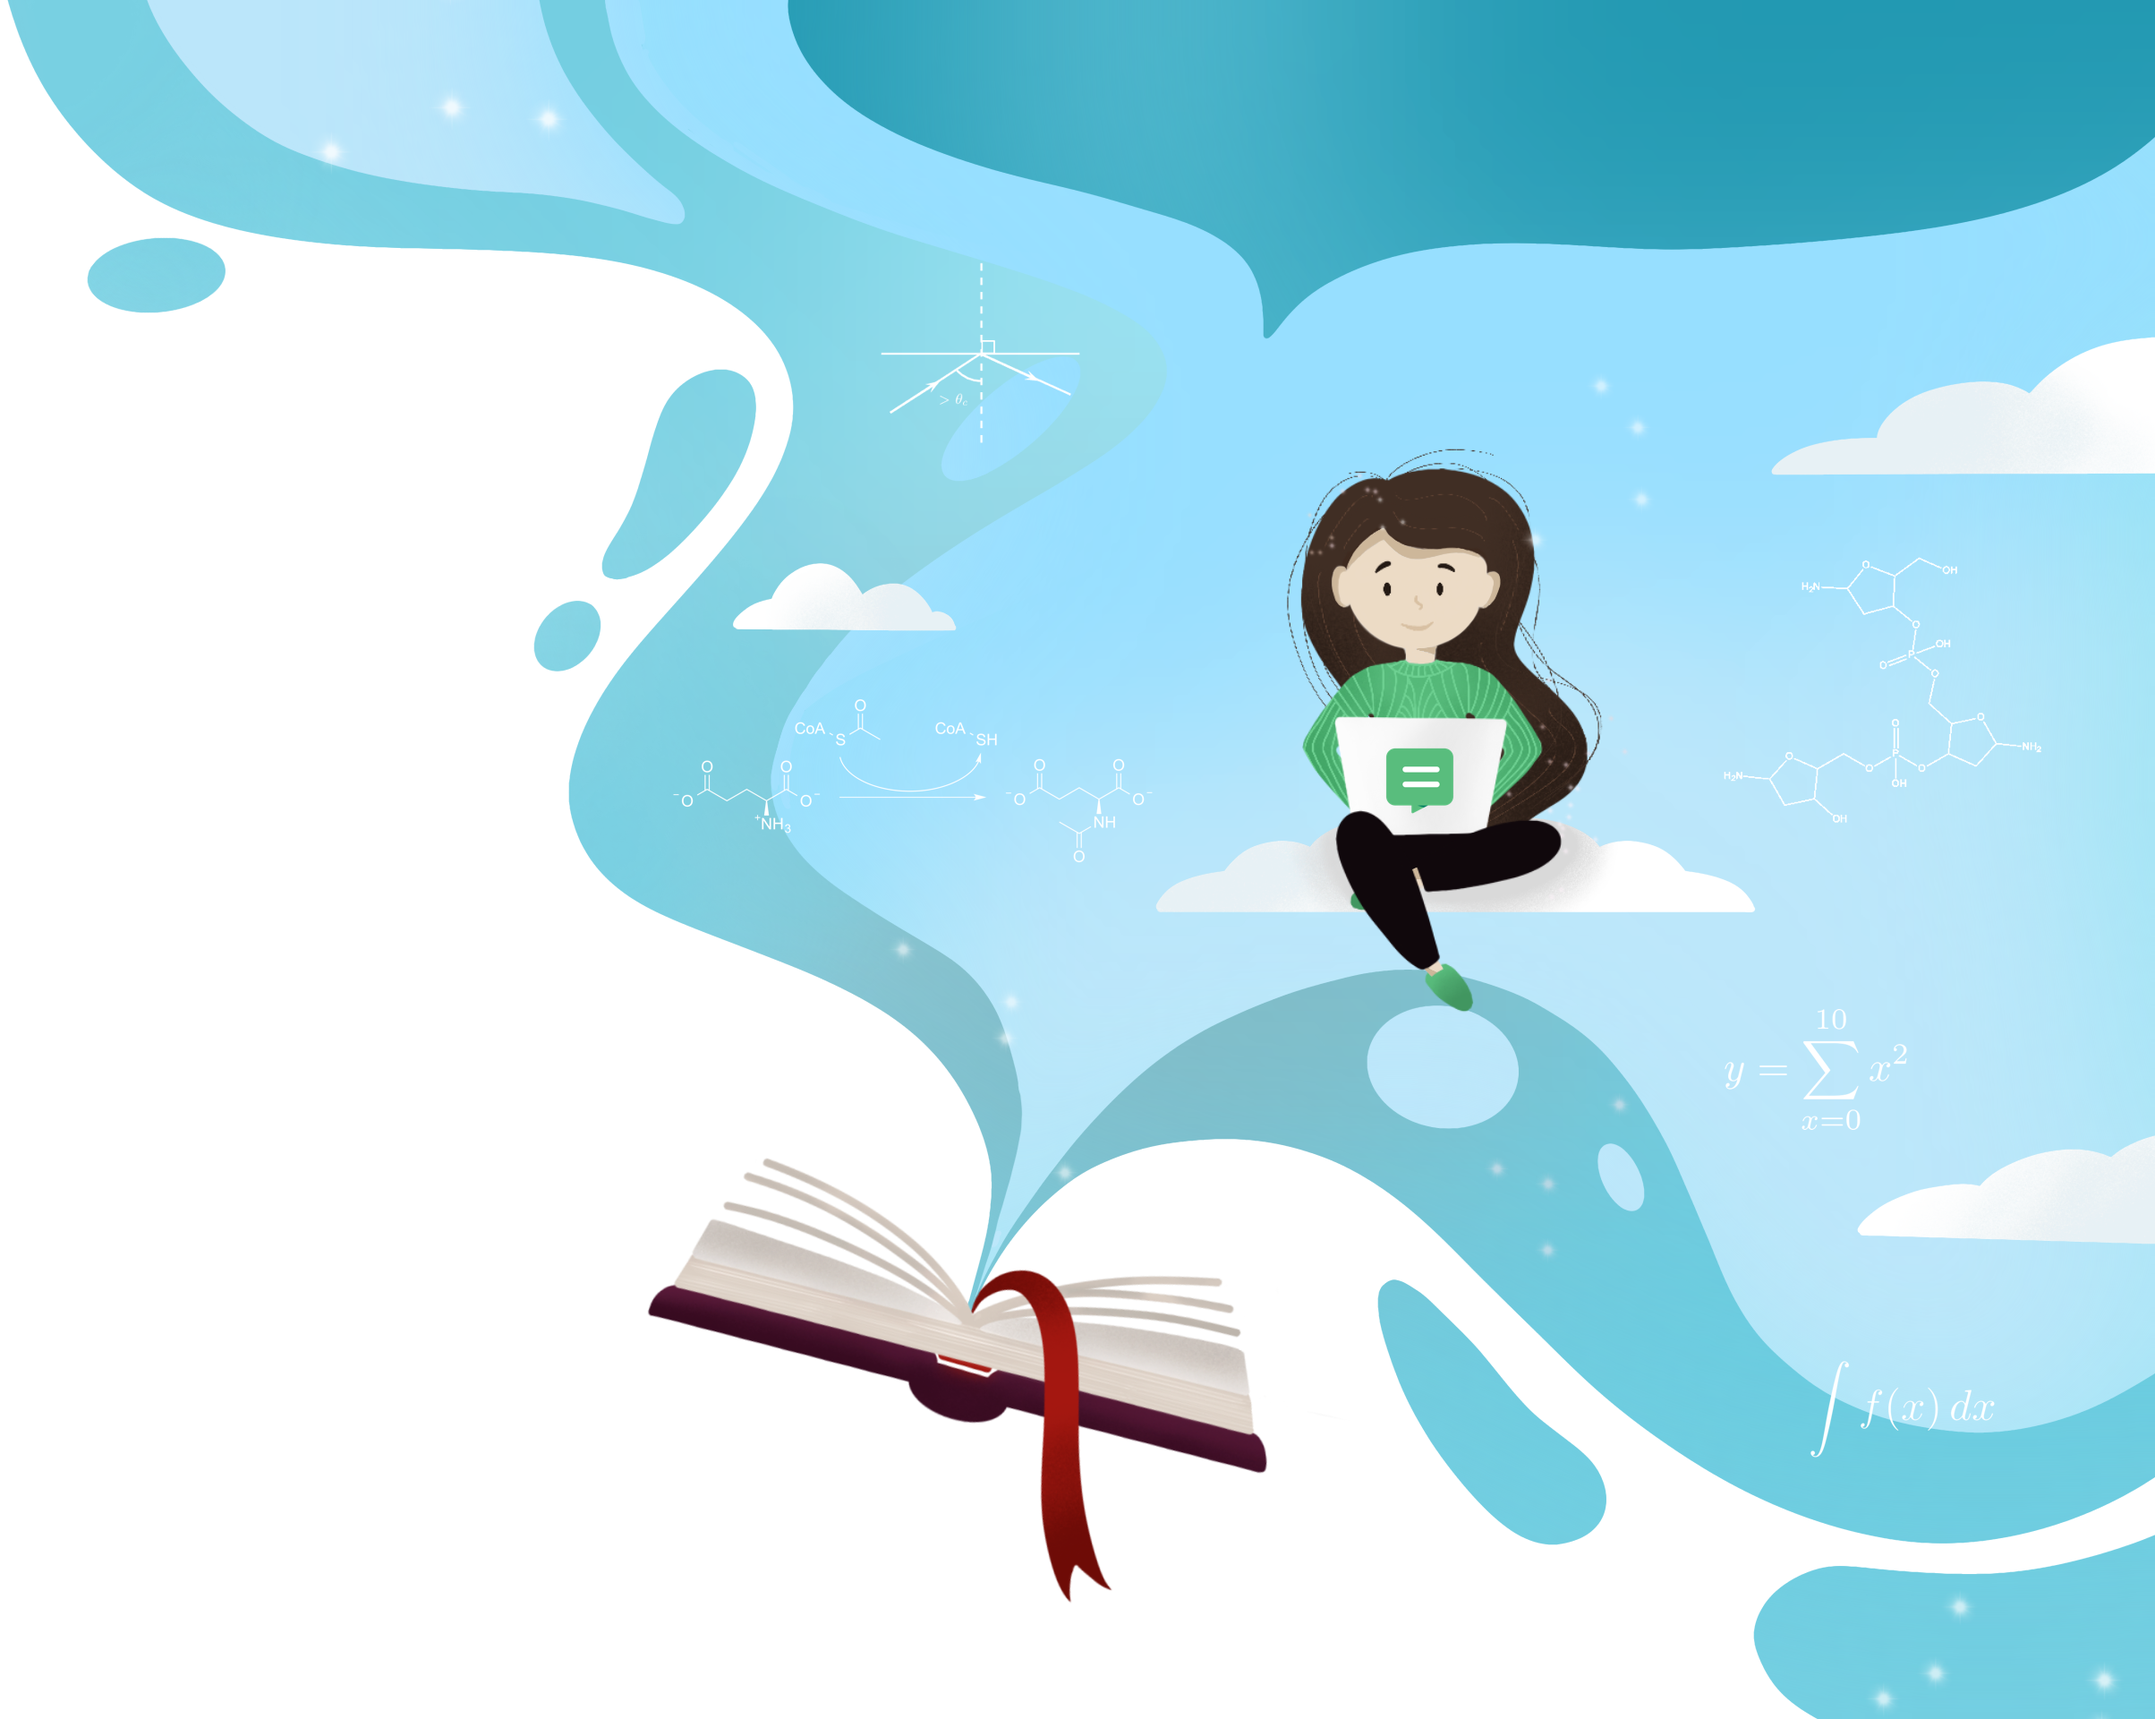
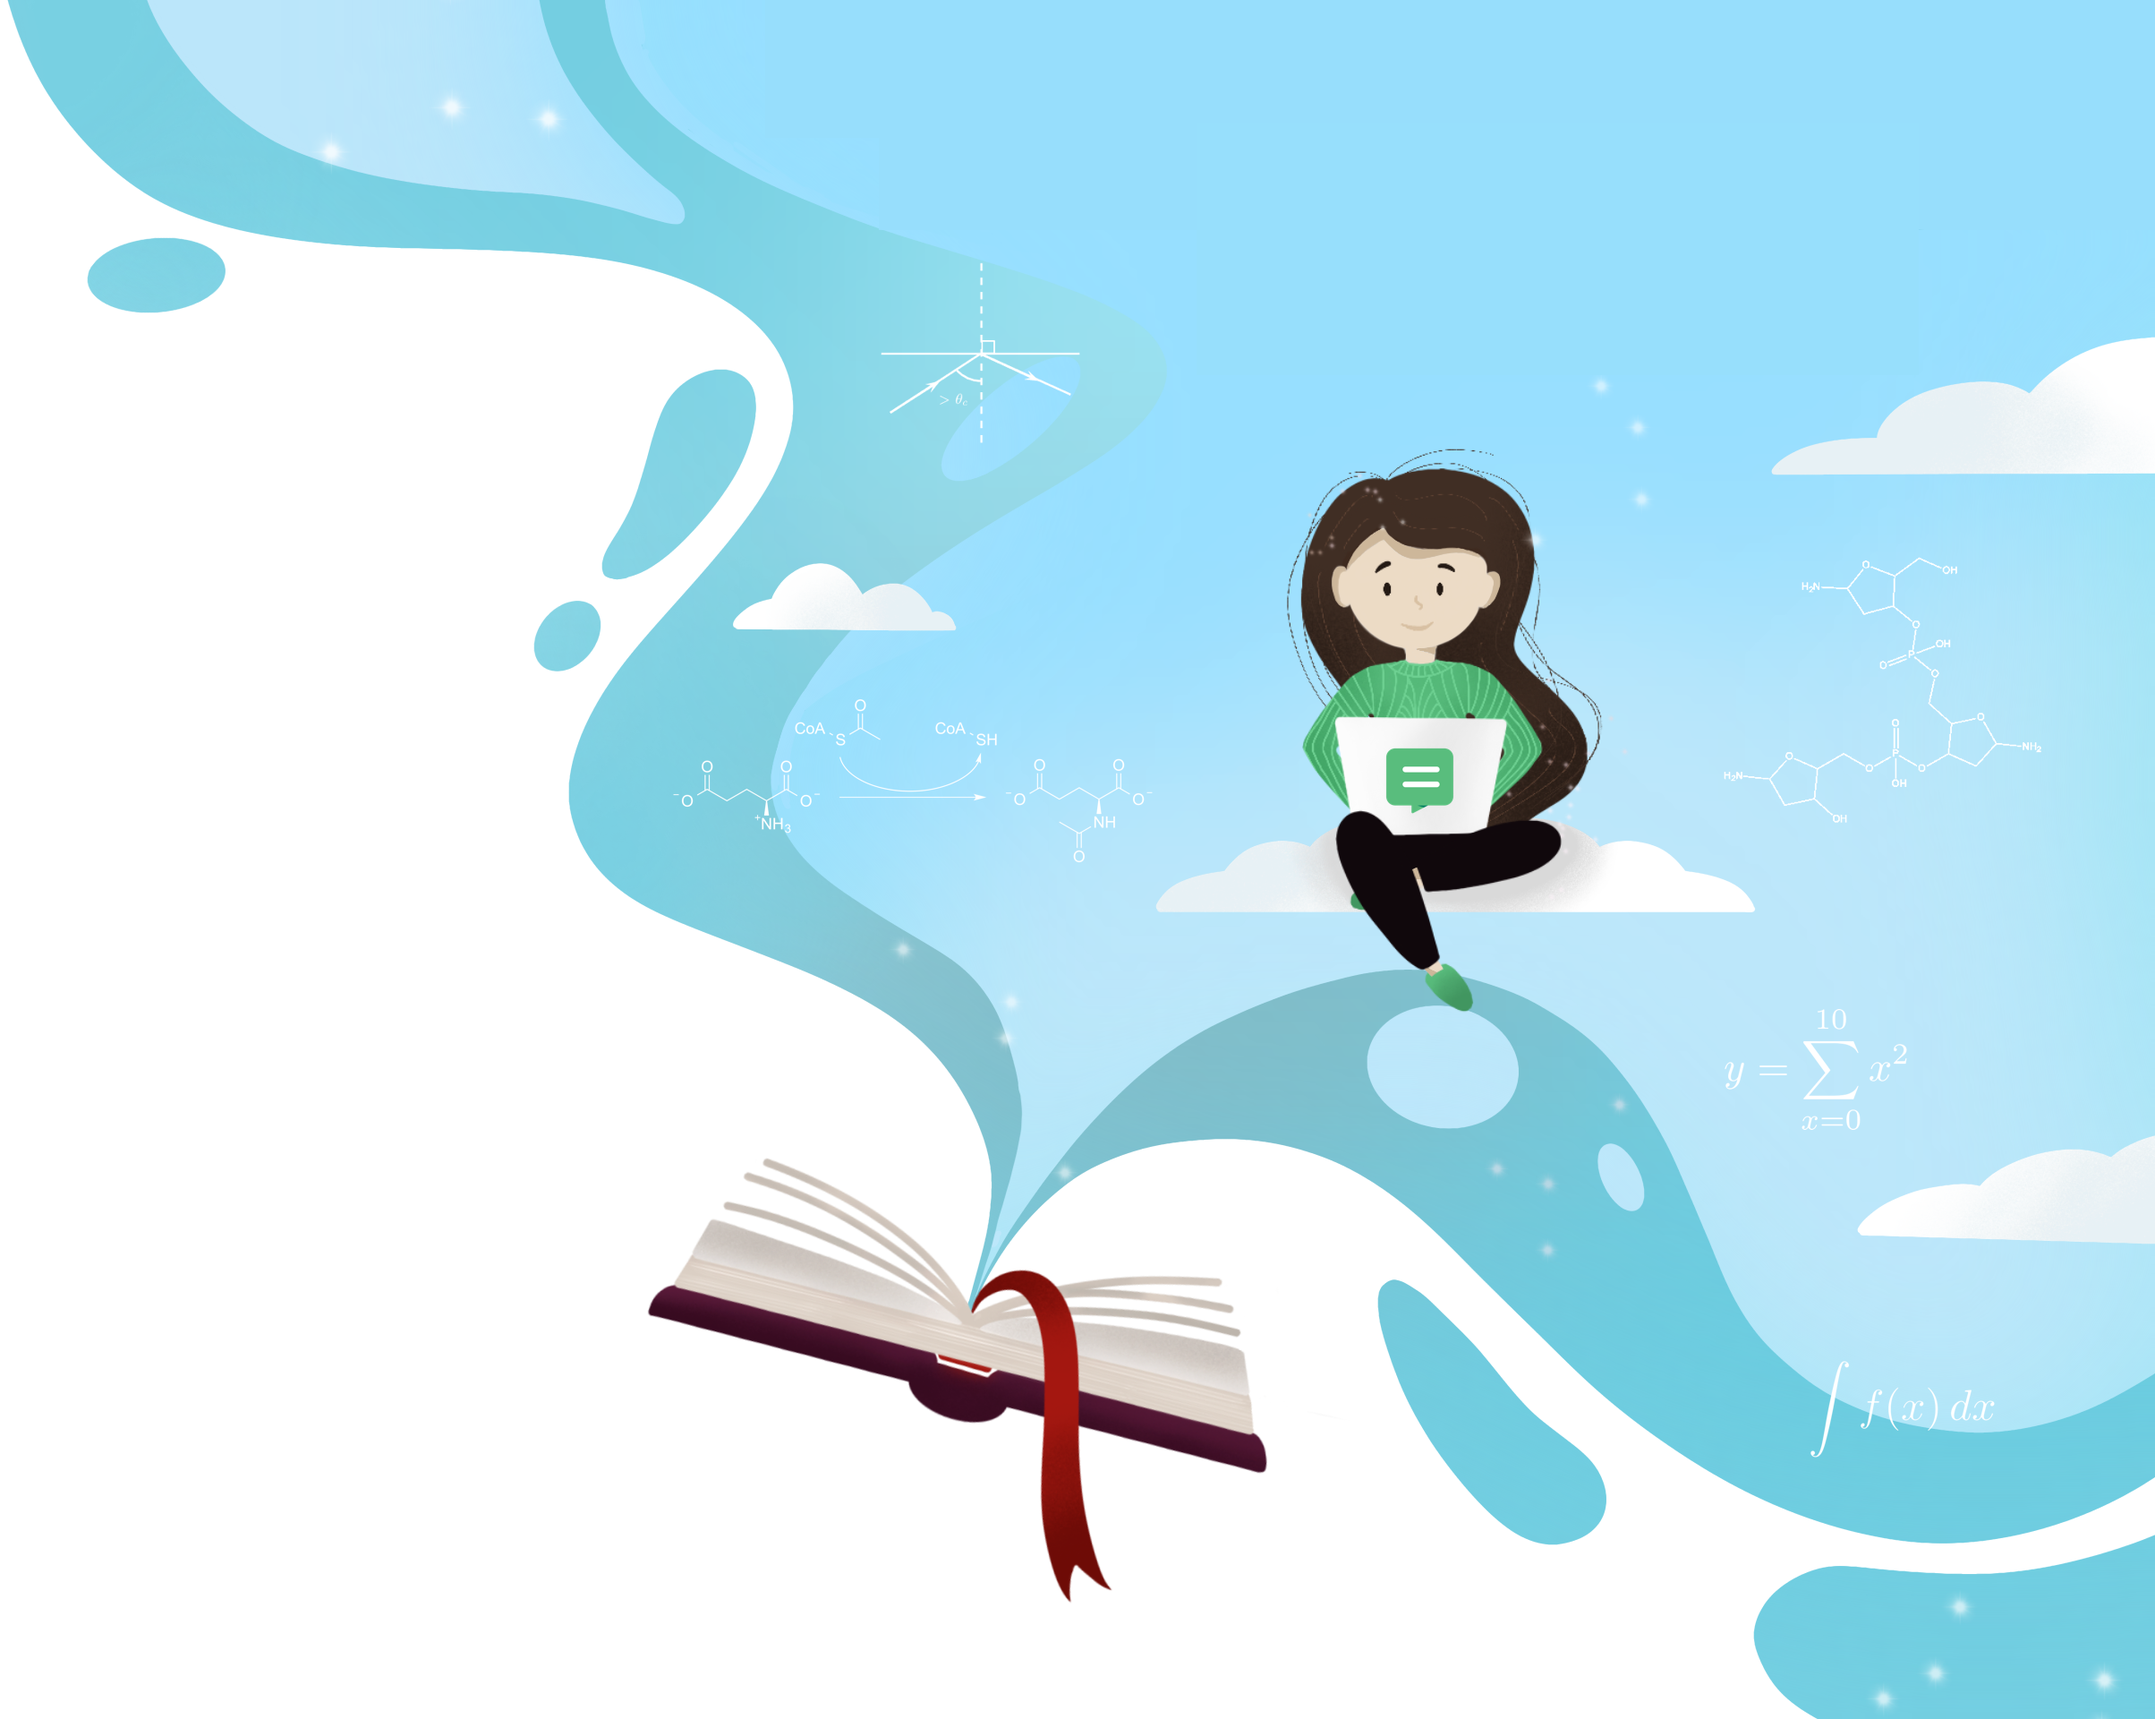
Added slide 2, slide 3 and animations to landing page

Changed region(s): [[0.3426, 0.0, 1.0, 0.1875]]

diff --git a/app/static/styles/landing.css b/app/static/styles/landing.css
@@ -9,6 +9,24 @@
 	position: relative;
 	border-radius: 40px 40px 0 0;
 }
+/* Cloud behind navbar menu */
+.new-landing .navbar-background {
+    position: absolute;
+    top: 0;
+    right: 0;
+    height: 100%;
+    width: 100vw;
+    z-index: 50;
+}
+.new-landing .navbar-background .navcloud {
+    height: 100%;
+    width: 100vw;
+	background-size: contain;
+	background-position: top right;
+    background-repeat: no-repeat;
+    background-image: url('../images/navcloud.png');
+}
+/* Left text panel */
 .new-landing .left-container {
     float: left;
     display: flex;
@@ -25,7 +43,8 @@
 .new-landing .left-container .hero-text p {
 	font-size: 15px;
 	font-weight: 600;
-	color: #5C77FF;
+    color: #5C77FF;
+    z-index: 100;
 }
 .new-landing .left-container .hero-text h1 {
 	font-family: 'Gilroy', sans-serif;
@@ -33,7 +52,8 @@
 	color: #212121;
 	font-size: 60px; /* 77px */
 	margin-top: 1.2vw;
-	transition: font-size 0.25s ease;
+    transition: font-size 0.25s ease;
+    z-index: 100;
 }
 .new-landing .left-container .hero-text h3 {
     width: 30vw;
@@ -42,7 +62,8 @@
 	line-height: 25px;
 	color: #333333;
 	margin-top: 2vw;
-	transition: font-size 0.25s ease;
+    transition: font-size 0.25s ease;
+    z-index: 100;
 }
 .new-landing .hero-text .button {
 	margin-top: 10%;
@@ -59,16 +80,20 @@
 	align-items: center;
 	justify-content: center;
 	color: #FFFFFF;
-	transition: all 0.3s ease;
+    transition: all 0.3s ease;
+    z-index: 100;
 }
 .new-landing .hero-text .button:hover {
 	transform: translate(0px, -5px);
-	box-shadow: 7px 6px 26px rgba(0, 0, 0, 0.2);
+    box-shadow: 7px 6px 26px rgba(0, 0, 0, 0.2);
+    background: rgb(108,204,230);
 }
 .new-landing .hero-text .button:active {
 	transform: translate(0px, 0px);
-	box-shadow: 7px 6px 26px rgba(0, 0, 0, 0.1);
+    box-shadow: 7px 6px 26px rgba(0, 0, 0, 0.1);
+    background: rgb(108,204,230);
 }	
+/* Right image panel */
 .new-landing .right-container {
     position: absolute;
     top: 0;
@@ -79,11 +104,19 @@
 .new-landing .right-container .hero-image {
     height: 100%;
     width: 100vw;
-	background-image: url('../images/Right image.png');
 	background-size: contain;
 	background-position: top right;
     background-repeat: no-repeat;
     z-index: 0;
+}
+#slide1 {
+    background-image: url('../images/Right Image.png');
+}
+#slide2 {
+    background-image: url('../images/Right Image 2.png');
+}
+#slide3 {
+    background-image: url('../images/Right Image 3.png');
 }
 .new-landing .right-container .hero-image p {
 	color: white;
@@ -93,6 +126,37 @@
 	font-size: 23px;
 	display: none;
 }
+/* Carousel controls */
+.carousel-indicators {
+    bottom: 18vh;
+    justify-content: flex-start;
+    margin-left: 18%;
+    z-index: 100;
+}
+.carousel-indicators li {
+    width: 15px;
+    height: 15px;
+    margin-left: 15px;
+    border-radius: 50%;
+    background-color: rgb(193,241,255);
+}
+.carousel-indicators .active, .carousel-indicators li:hover {
+    cursor: pointer;
+    background-color: rgb(108,204,230);
+}
+.carousel-item {
+    height: 100vh;
+}
+/* Carousel animations */
+@keyframes activeSlide {
+    0%, 100% { opacity: 0; transform: translate(50em, 0em) }
+    20%, 80% { opacity: 1; transform: translate(0, 0) }
+}
+.active .hero-image {
+    animation: activeSlide 10s ease;
+    animation-fill-mode: forwards;
+}
+/* Responsive */
 @media screen and (max-width: 1640px) {
 	.new-landing .left-container .hero-text {
 		width: 455px;
@@ -117,6 +181,11 @@
     .new-landing .right-container .hero-image {
         position: fixed;
         left: 0;
+        width: 1240px;
+    }
+    .new-landing .navbar-background .navcloud {
+        position: absolute;
+        right: 0px;
         width: 1240px;
     }
 }

diff --git a/app/static/styles/main.css b/app/static/styles/main.css
@@ -128,35 +128,25 @@ input[type=number]::-webkit-outer-spin-button
 	padding: 14px;
 }
 /* Landing menu */
-.navbar {
+.nav-bar {
     position: absolute;
     width: 100vw;
     margin-top: 30px;
     display: flex;
   	z-index: 100;
 }
-.navbar .logo {
+.nav-bar .logo {
     display: flex;
 	cursor: pointer;
 	transition: all 0.2s ease;
 }
-.navbar .logo img {
+.nav-bar .logo img {
     margin-top: -30px;
-	height: 15vw;
-	width: 17vw;
+	height: 13vw;
+	width: 15vw;
 	transition: all 0.2s ease;
 }
-/*
-.navbar .logo p {
-	font-family: 'Gilroy', sans-serif;
-	font-size: 29px;
-	font-weight: 600;
-	color: #333333;
-	padding-left: 14px;
-	transition: all 0.2s ease;
-}
-*/
-.navbar .menu {
+.nav-bar .menu {
     display: flex;
     justify-content: space-between;
     width: 450px;
@@ -165,10 +155,10 @@ input[type=number]::-webkit-outer-spin-button
   	list-style-type: none;
  	overflow: hidden;
 }
-.navbar .menu li {
+.nav-bar .menu li {
   	float: left;
 }
-.navbar .menu li a  {
+.nav-bar .menu li a  {
 	font-family: 'SF UI Text', sans-serif;
 	font-size: 18px;
 	font-weight: 500;
@@ -178,30 +168,30 @@ input[type=number]::-webkit-outer-spin-button
   	padding: 6px 23px;
   	text-decoration: none;
   	border-radius: 11px;
-  	transition: background 0.3s;
+    transition: background 0.3s;
 }
-.navbar .menu li a:hover  {
-	text-shadow: 0 2px 5px #333333;
+.nav-bar .menu li:hover  {
+    text-shadow: 0 2px 5px #333333;
 }	
-.navbar .menu li .active  {
+.nav-bar .menu li .active  {
   	text-shadow: 0 2px 5px #333333;
 }
 
 @media screen and (max-width: 960px) {
-	.navbar {
+	.nav-bar {
 		position: relative;
 		justify-content: space-between;
 		margin-right: 50px;
 	}
-	.navbar .menu li .active  {
+	.nav-bar .menu li .active  {
 		display: none;
 	}
-	.navbar .menu li a  {
+	.nav-bar .menu li a  {
 	  	border: 2px solid #E6E6EF;
 	  	transition: border 0.25s ease;
 	  	margin-right: 0;
 	}
-	.navbar .menu li a:hover  {
+	.nav-bar .menu li a:hover  {
 		background: none;
 		border: 2px solid #D7D7E5;
 	}
@@ -210,36 +200,36 @@ input[type=number]::-webkit-outer-spin-button
 	}
 }
 @media screen and (max-width: 479px) {
-	.navbar {
+	.nav-bar {
  		margin: 25px 25px 0 25px;
 	}
-	.navbar .menu li {
+	.nav-bar .menu li {
   		float: left;
   		margin-left: 0px;
 	}
-	.navbar .menu {
+	.nav-bar .menu {
   		margin-left: 0px;
 	}
-	.navbar .logo {
+	.nav-bar .logo {
 		margin-top: 2px;
 	}
 
 }
 @media screen and (max-width: 375px) {
-	.navbar .navbar {
+	.nav-bar .nav-bar {
  		margin: 16px 16px 0 16px;
 	}
-	.navbar .logo img {
+	.nav-bar .logo img {
 		height: 30px;
 		width: 28.5px;
 	}
-	.navbar .logo p {
+	.nav-bar .logo p {
 		font-size: 27px;
 	}
-	.navbar .menu li {
+	.nav-bar .menu li {
 	  	margin-left: 0;
 	}
-	.navbar .menu li a  {
+	.nav-bar .menu li a  {
 		font-size: 16px;
 	}
 	

diff --git a/app/templates/index.html b/app/templates/index.html
@@ -2,12 +2,17 @@
 
 {% block styles %}
 {{ super() }}
+<link rel="stylesheet" href="https://maxcdn.bootstrapcdn.com/bootstrap/4.0.0/css/bootstrap.min.css"
+    integrity="sha384-Gn5384xqQ1aoWXA+058RXPxPg6fy4IWvTNh0E263XmFcJlSAwiGgFAW/dAiS6JXm" crossorigin="anonymous">
 <link rel="stylesheet" href="{{ url_for('static', filename='styles/landing.css') }}">
 {% endblock styles %}
 
 
 {% block page_content %}
 <div class="new-landing">
+    <div class="navbar-background">
+        <div class="navcloud"></div>
+    </div>
 	<div class="left-container">
 		<div class="hero-text">
 			<p>AI-driven School Dashboard</p>
@@ -20,11 +25,24 @@
 			</a>
 		</div>
 	</div>
-	<div class="right-container">
-		<div class="hero-image">
-			<p>AI-driven School Dashboard</p>
-		</div>
-	</div>
+    <div class="carousel right-container" id="landing-carousel" data-ride="carousel">
+        <ol class="carousel-indicators">
+            <li data-target="#landing-carousel" data-slide-to="0" class="active"></li>
+            <li data-target="#landing-carousel" data-slide-to="1"></li>
+            <li data-target="#landing-carousel" data-slide-to="2"></li>
+        </ol>
+        <div class="carousel-inner">
+            <div class="carousel-item active">
+                <div class="hero-image" id="slide1"></div>
+            </div>
+            <div class="carousel-item">
+                <div class="hero-image" id="slide2"></div>
+            </div>
+            <div class="carousel-item">
+                <div class="hero-image" id="slide3"></div>
+            </div>
+        </div>
+    </div>
 </div>
 {% endblock %}
 

diff --git a/app/templates/base.html b/app/templates/base.html
@@ -34,7 +34,7 @@
     <div class="loader-wrapper">
         Gradder
     </div>
-    <div class="navbar">
+    <div class="nav-bar">
         {% block navbar %}
         <div class="logo">
             <img src="{{ url_for('static', filename='images/Left Image.png') }}" alt="Gradder logo">
@@ -49,7 +49,7 @@
         {% endblock navbar %}
     </div>
     {% block content %}
-    <div class="container">
+    <div class="contain">
         {% for message in get_flashed_messages() %}
         <div class="alert alert-warning">
             <button type="button" class="close" data-dismiss="alert">&times;</button>
@@ -79,6 +79,13 @@
 
     {{ moment.include_moment() }}
     {% endblock scripts %}
+    <script src="https://cdnjs.cloudflare.com/ajax/libs/popper.js/1.12.9/umd/popper.min.js"
+        integrity="sha384-ApNbgh9B+Y1QKtv3Rn7W3mgPxhU9K/ScQsAP7hUibX39j7fakFPskvXusvfa0b4Q"
+        crossorigin="anonymous"></script>
+    <script src="https://maxcdn.bootstrapcdn.com/bootstrap/4.0.0/js/bootstrap.min.js"
+        integrity="sha384-JZR6Spejh4U02d8jOt6vLEHfe/JQGiRRSQQxSfFWpi1MquVdAyjUar5+76PVCmYl"
+        crossorigin="anonymous"></script>
+
 </body>
 
 </html>

diff --git a/app/static/scripts/landing.js b/app/static/scripts/landing.js
@@ -11,6 +11,11 @@ window.onload = function(){
    	}
 } 	
 
+/* Landing page carousel */
+$(document).ready(function () {
+    $(".carousel").carousel({ interval: 10000 });
+});
+
 /* Показать текст */
 document.getElementsByClassName('custom-options')[0].addEventListener('click', function() {
 	document.getElementById('problem').style.opacity = "1";
